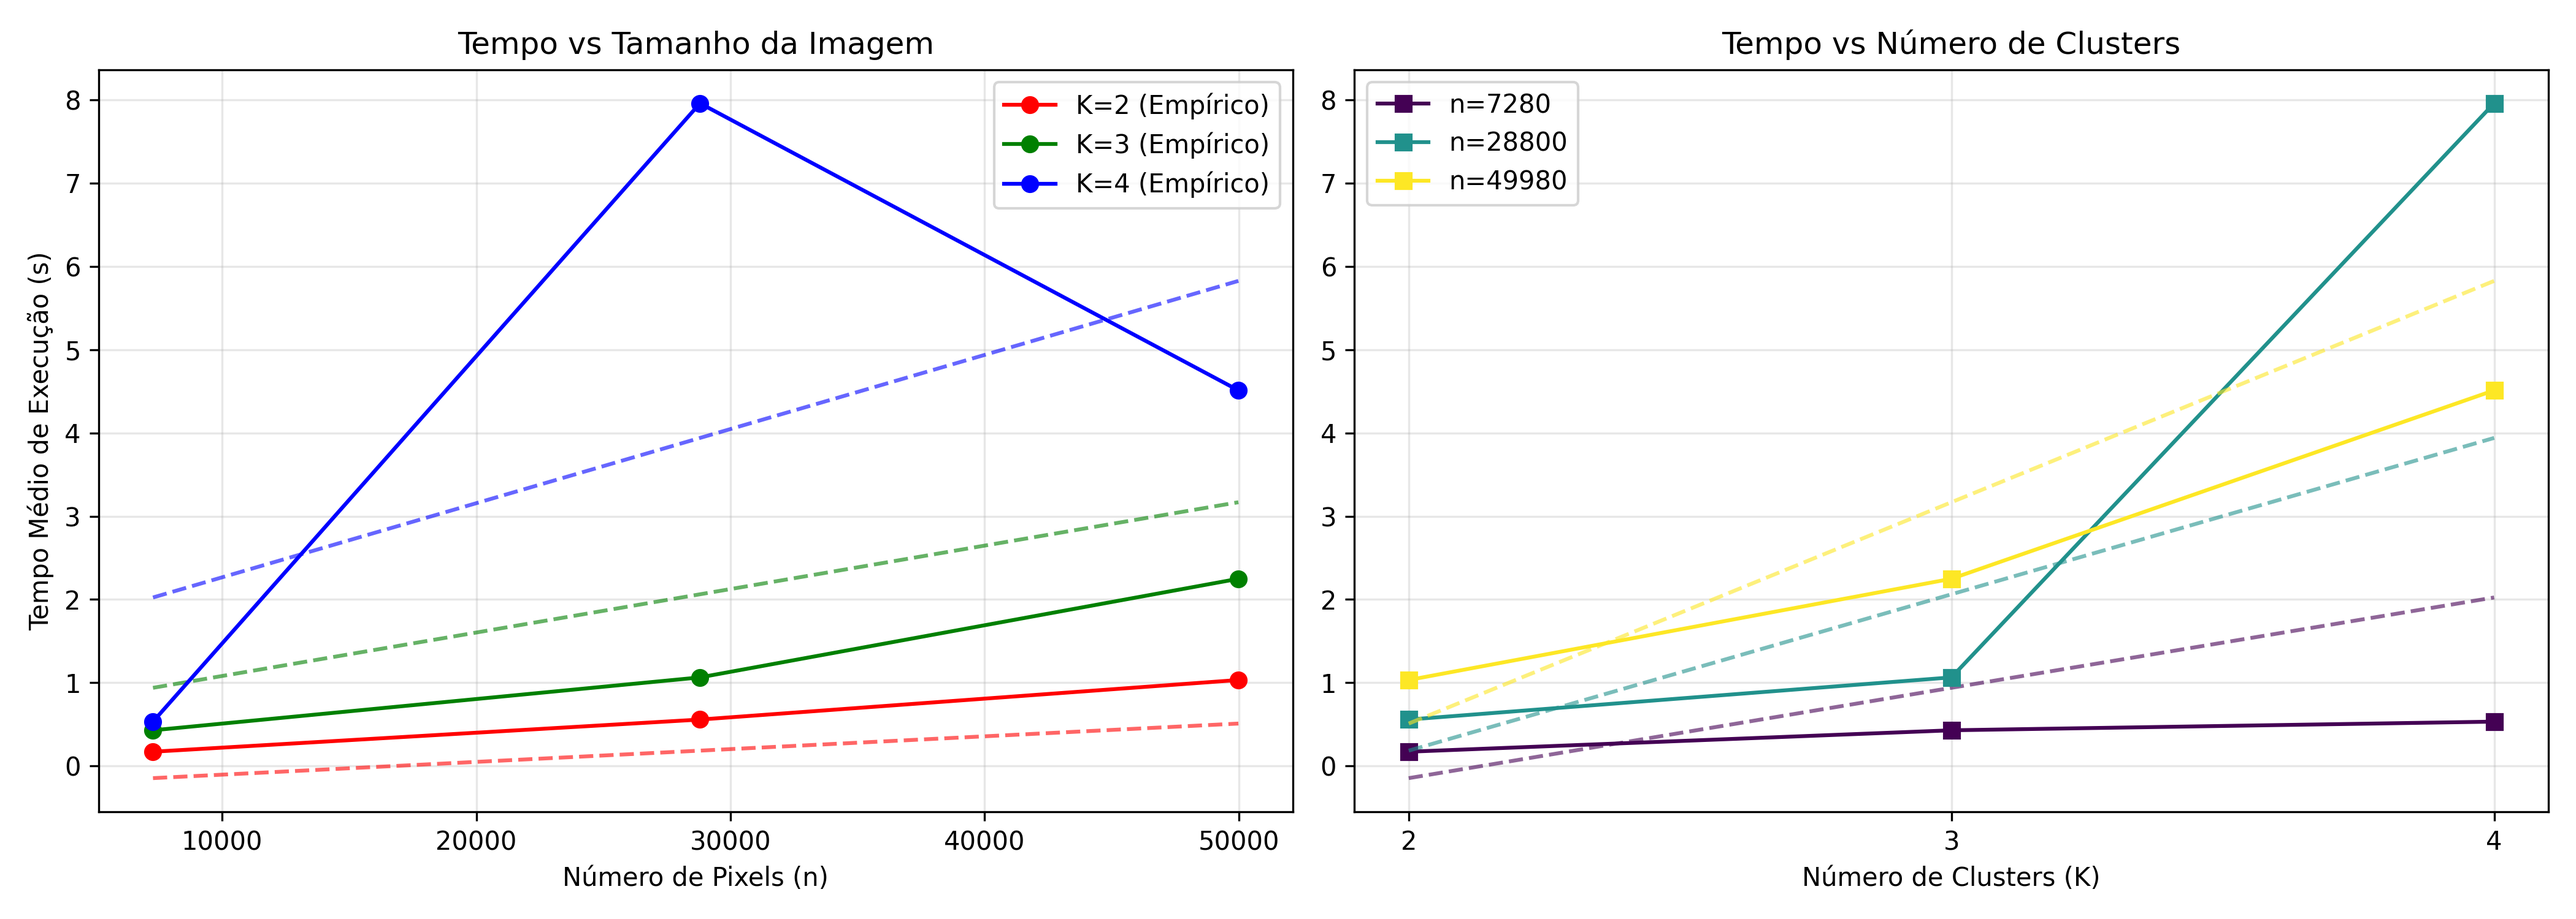
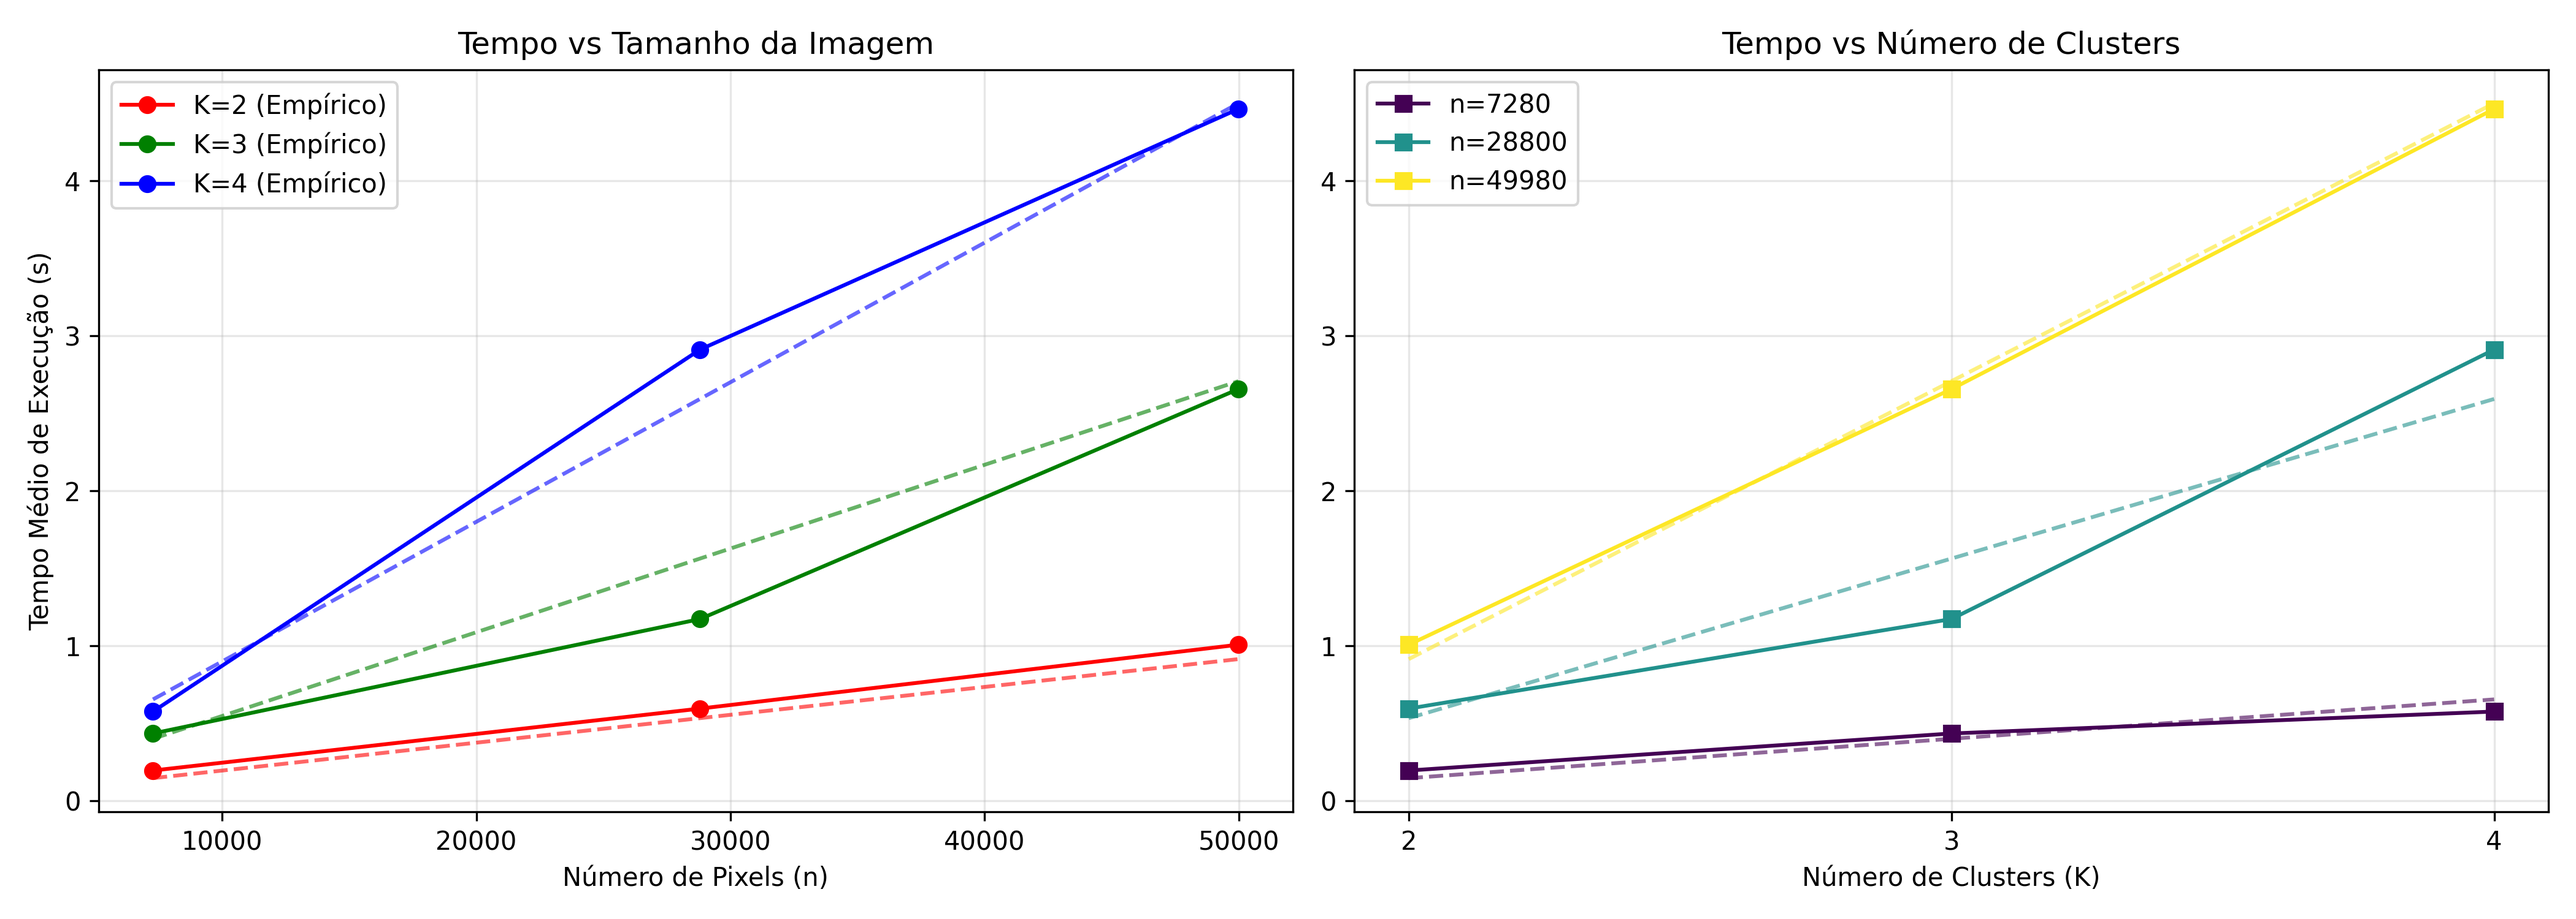
Update output filenames and results for pure FCM experiment; add new 3D surface plots

diff --git a/experimentador_EP_FCMPuro.py b/experimentador_EP_FCMPuro.py
@@ -421,7 +421,7 @@ if not df_raw.empty:
     ax_3d.legend()
     
     plt.tight_layout()
-    plt.savefig('superficie_3d_foca.png', dpi=300)
+    plt.savefig('superficie_pura_3d_foca.png', dpi=300)
     plt.show()
     
 	# ==========================================
